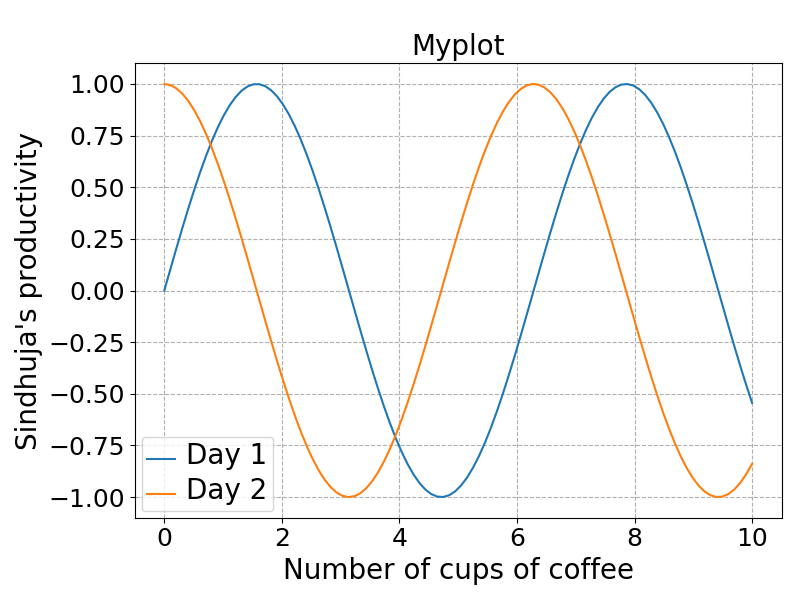
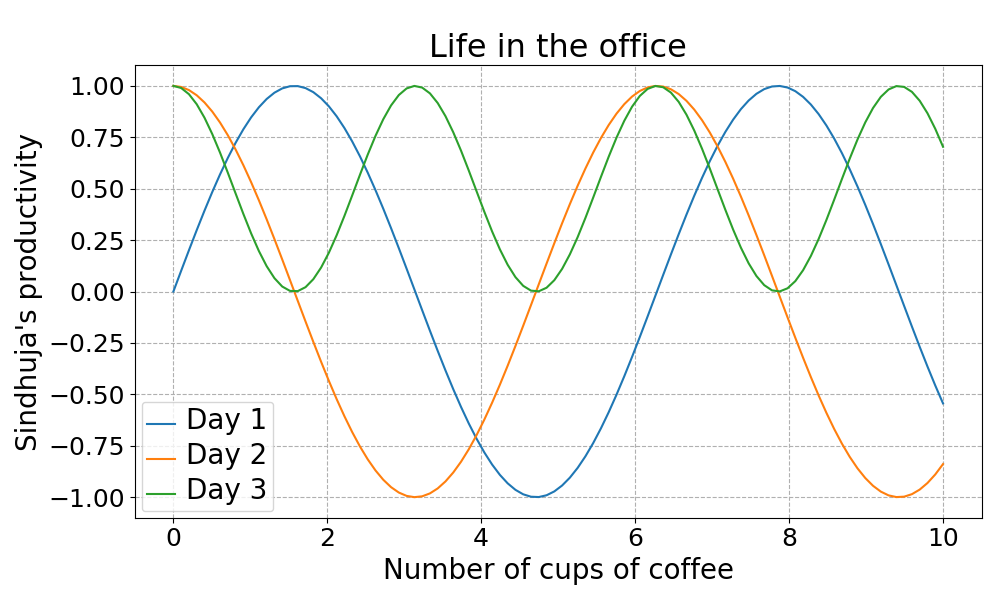
more examples and readme

diff --git a/example_two_subplots.py b/example_two_subplots.py
@@ -1,0 +1,67 @@
+from myplot import *
+import numpy as np
+
+### -----------
+
+#/3 pretty style: True, standard style: False
+mystyle = True
+# mystyle = False
+## legend outside or inside the plot, for myplot
+legout = True
+# legout = False
+
+### -----------
+
+
+## example points
+x = np.linspace(0, 10, 100)
+y1 = np.sin(x)
+y2 = np.cos(x)
+
+def default():
+    ''' default look '''
+    fig, ax = plt.subplots(2, figsize=(10,8), sharex=True)
+    ax[0].plot(x, y1, label='Day 1')
+    ax[0].plot(x, y2, label='Day 2')
+    ax[0].set_ylabel("Sindhu's Productivity")
+    ax[0].legend()
+
+    ax[1].plot(x, y1*y1, label='Day 1')
+    ax[1].plot(x, y1 + y2, label='Day 2')
+    ax[1].set_ylabel("Mariia's Productivity")
+    ax[1].legend()
+
+    plt.xlabel('Number of cups of coffee')
+    plt.suptitle('Default')
+    # plt.show()
+    plt.savefig('two_subplots_default.png')
+
+
+def pretty():
+    ''' "pretty" look '''
+    p = Plot((10,8),2) # size 10 x 8, default one subplot
+
+    p.axes[0].plot(x, y1, label='Day 1')
+    p.axes[0].plot(x, y2, label='Day 2')
+    p.axes[0].set_ylabel("Sindhu's Productivity")
+
+    p.axes[1].plot(x, y1*y1, label='Day 1')
+    p.axes[1].plot(x, y1 + y2, label='Day 2')
+    p.axes[1].set_ylabel("Mariia's Productivity")
+
+    plt.xlabel('Number of cups of coffee')
+    plt.suptitle('Myplot')
+
+    ncol = 2 if legout else 1
+    p.legend(out=legout, ncol=ncol) # legend outside with two columns
+
+    p.pretty() # beautification
+    imgname = 'two_subplots_myplot'
+    if legout: imgname += '_outside'
+    p.figure(imgname + '.png')
+
+
+if mystyle:
+    pretty()
+else:
+    default()

diff --git a/example_one_subplot.py b/example_one_subplot.py
@@ -1,0 +1,40 @@
+from myplot import *
+import numpy as np
+
+### -----------
+
+# pretty style: True, standard style: False
+# mystyle = True
+mystyle = False
+
+### -----------
+
+## example points
+x = np.linspace(0, 10, 100)
+y1 = np.sin(x)
+y2 = np.cos(x)
+y3 = np.cos(x)**2
+
+# size 10 x 8
+if mystyle:
+    p = Plot((10,6))
+else:
+    plt.subplots(figsize=(10,6))
+
+## plot
+plt.plot(x, y1, label='Day 1')
+plt.plot(x, y2, label='Day 2')
+plt.plot(x, y3, label='Day 3')
+
+plt.xlabel('Number of cups of coffee')
+plt.ylabel("Sindhuja's productivity")
+plt.title('Life in the office')
+
+if mystyle:
+    p.legend(ncol=1, out=False)
+    p.pretty(large=3) # for pretty look
+    p.figure('one_subplot_myplot.png') # if 'save' is in argv, it will save the figure instead of showing
+else:
+    plt.legend()
+    plt.savefig('one_subplot_default.png')
+    # plt.show()

diff --git a/myplot.py b/myplot.py
@@ -102,13 +102,18 @@ class Plot:
         print 'Image:', name
 
         if save:
-            self.fig.savefig(name)
-            print '(saved)'
+            if name:
+                self.fig.savefig(name)
+                print '(saved)'
+            else:
+                print "You didn't provide an image name!"
         else:
             print '(NOT SAVED)'
             plt.show()
 
 
-    def add_axis(self, ax):
+    def add_axis(self, col=None, ax=None):
         ''' Used in case a plot has two y axes and we create one additionally externally '''
-        self.axes.append(ax)
+        ax2 = ax if ax else self.ax.twinx()
+        if col: ax2.tick_params(axis='y', colors=col)
+        self.axes.append(ax2)

diff --git a/example_second_axis.py b/example_second_axis.py
@@ -1,0 +1,23 @@
+from myplot import *
+import numpy as np
+
+## example points
+x = np.linspace(0, 10, 100)
+y1 = np.sin(x)
+y2 = np.cos(x)
+y3 = np.cos(x)**2
+
+def automatic():
+    ''' one subplot, adding second y axis '''
+    p = Plot((10,8))
+    p.add_axis('b')
+
+    p.axes[0].plot(x, y1, label = 'y1', color = 'r')
+    p.axes[1].plot(x, y2, label = 'y2', color = 'b')
+
+    p.legend(pos=[3,1])
+    p.pretty()
+    p.figure('second_yaxis.png')
+
+
+automatic()

diff --git a/README.md b/README.md
@@ -1,1 +1,90 @@
 # myplot
+
+Plot class for quick prettification of plots. Example:
+
+```python
+from myplot import *
+
+p = Myplot((10,8)) # canvas size
+
+plt.plot(x, y, label = 'shrubbery')
+
+p.legend(out=True, ncol=2) # create legend
+p.pretty() # make everything pretty
+p.figure('name.png') # save figure or display plot
+```
+
+Let's call it ```example.py```
+
+## Legend
+
+Method ```legend()``` allows quick management of legends. Arguments:
+
+- out [True|False]: legend outside of the plot in the bottom (default False)
+
+- ncol [int]: number of columns in the legend (default 1)
+
+- pos [list of int|string]: position of the legend (default "best"). Important for plotting with a second Y axis (see below)
+
+Compare
+
+
+```python
+p.legend(out=False,ncol=1)
+```
+
+(gives ```two_subplots_myplot.png```)
+
+and
+
+
+```python
+p.legend(out=True,ncol=2)
+```
+
+(gives ```two_subplots_myplot_outside.png```)
+
+
+## Pretty
+
+Method ```pretty()``` allows quick beautification:
+
+- add grid
+
+- increase all fontsize
+
+- increase tick labels
+
+Arguments:
+
+- large [int]: controls fontsizes (default 3)
+
+- stretch [None|"float"|"year"] change x axis range (default None). Useful for cases when the automatic ranges makes the leftmost and rightmost point fall right at the frame and get "eaten up"
+    None: do not do anything
+    "float": increase the range by 10%
+    "year": increase the range by 1
+    
+- grid ["major"|"minor"]: only major grid, or also minor; same as the grid argument of the function ax.grid()
+
+
+Compare the same plot with (```one_subplot_myplot.png```) and without ```pretty()``` (```one_subplot_default.png```)
+
+## Figure
+
+If you run your plotting function with an argument 'save':
+
+```console
+python example.py save
+```
+
+It will save the figure with the filename that you provide as the argument. Otherwise it will simply display the plot.
+
+## Second Y axis
+
+Method ```add_axis()``` adds a second Y axis. Arguments:
+
+- col [string]: colour of the axis. Can be useful to differentiate the curves and see which one belongs to which Y axis
+
+- ax [None|pyplot Axis]: axis to add. If None, a second axis is created automatically as a twin of the first axis. In case of two subplots, it will create a second Y axis only for the first subplot. So if you want to add two Y axis for both subplots, create them "externally" and add by passing them to this function. Maybe this should be improved in the future to be automatic as well, by simply asking the number of secondary Y axes
+
+Example usage in ```example_second_axis.py```
